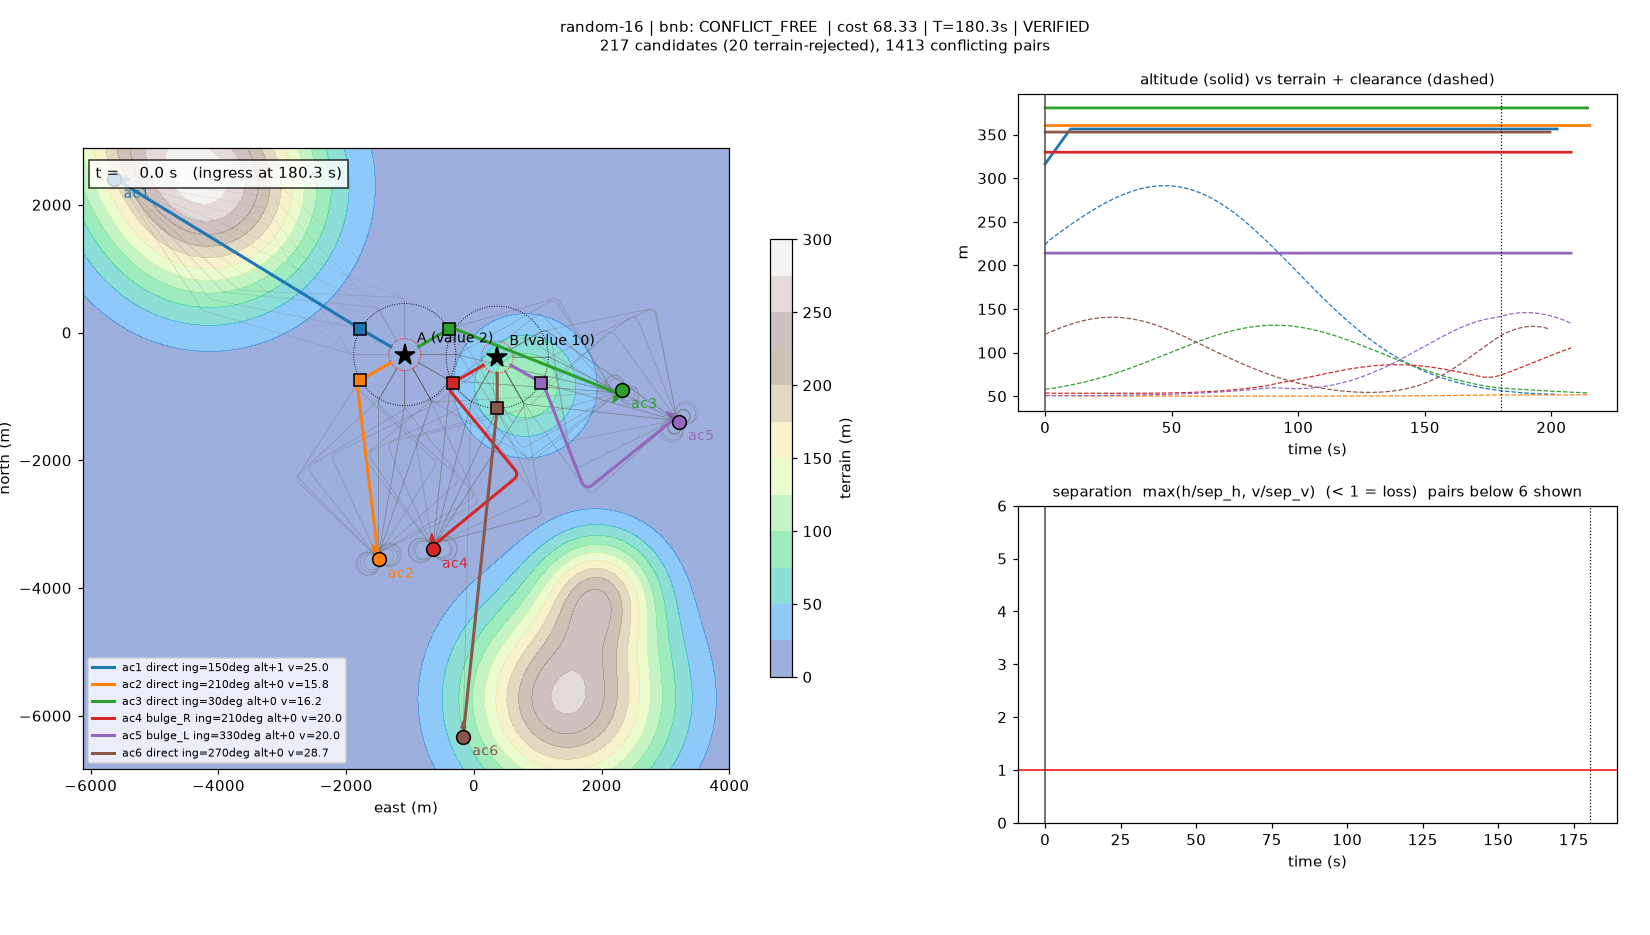
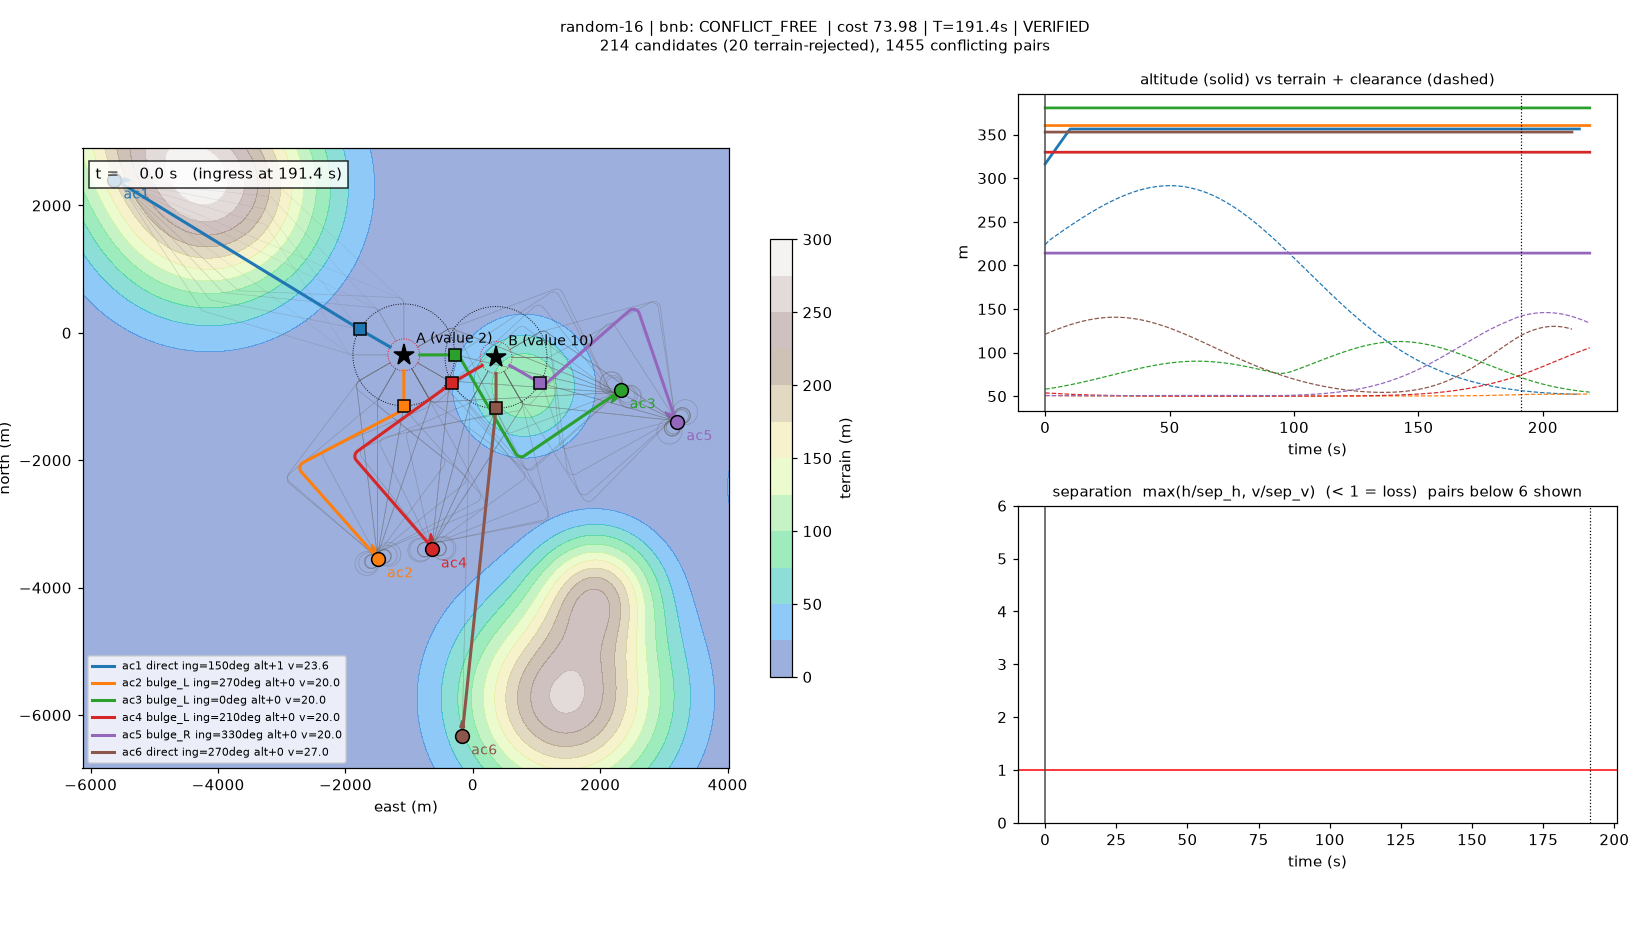
Monte Carlo robustness check; 15% speed margin for timing authority
robust.py replays plans under wind, start delay, cross-track and altitude
errors with a saturated schedule-tracking speed controller. Speed band
margin is now a fraction of (v_max - v_min): arrival misses drop from
18.9% to 1.4% across 200 seeds. Time-growing timing padding was tried
and reverted (no benefit; closed-loop timing error shrinks over time).

diff --git a/src/traj_opt/robust.py b/src/traj_opt/robust.py
@@ -1,0 +1,125 @@
+"""Monte Carlo robustness check: replay a plan under execution errors.
+
+Each trial perturbs every chosen aircraft with a constant wind (ground-speed bias), a start-time error,
+a constant cross-track offset, and a constant altitude offset. Each aircraft flies its planned path and
+tracks its planned schedule with a proportional speed controller, saturated at [v_min, v_max] airspeed.
+That saturation is where a thin speed margin shows up: an aircraft at its limit cannot recover lost time.
+"""
+
+from __future__ import annotations
+
+from dataclasses import dataclass, field
+from itertools import combinations
+
+import numpy as np
+
+from .model import Plan, Scenario
+
+
+@dataclass(frozen=True)
+class Dispersions:
+    wind_sd: float = 1.0  # m/s, along-track ground-speed bias
+    start_delay_sd: float = 3.0  # s, schedule error at plan start (+ = late)
+    cross_track_sd: float = 10.0  # m
+    alt_sd: float = 5.0  # m
+    gain: float = 0.1  # 1/s, schedule-tracking speed controller
+    arrival_tol: float = 2.0  # s, allowed |ingress time error|
+    dt: float = 0.2  # s, simulation step
+
+
+@dataclass
+class Robustness:
+    trials: int
+    p_sep_loss: float  # P(any pair separation ratio < 1)
+    p_terrain: float  # P(any aircraft below terrain + clearance)
+    p_arrival_miss: float  # P(any aircraft misses ingress time by > arrival_tol)
+    arrival_err_p95: float  # s, 95th percentile of the worst |ingress time error| per trial
+    min_sep_p05: float  # 5th percentile of the worst separation ratio per trial
+    pair_loss: dict[tuple[int, int], float] = field(default_factory=dict)
+
+    def summary(self) -> str:
+        worst = max(self.pair_loss.items(), key=lambda kv: kv[1], default=(None, 0.0))
+        s = (
+            f"robustness ({self.trials} trials): P(sep loss)={self.p_sep_loss:.1%}  "
+            f"P(terrain)={self.p_terrain:.1%}  P(arrival miss)={self.p_arrival_miss:.1%}  "
+            f"p95 |arrival err|={self.arrival_err_p95:.1f}s  p05 min sep ratio={self.min_sep_p05:.2f}"
+        )
+        if worst[1] > 0:
+            s += f"  worst pair ac{worst[0][0]}-ac{worst[0][1]} ({worst[1]:.1%})"
+        return s
+
+
+def monte_carlo(sc: Scenario, plan: Plan, trials: int = 200, disp: Dispersions | None = None, seed: int = 0):
+    disp = disp or Dispersions()
+    p = sc.params
+    acs = sc.aircraft_by_id()
+    chosen = sorted((k, c) for k, c in (plan.chosen or {}).items() if c is not None)
+    if not chosen:
+        return None
+    rng = np.random.default_rng(seed)
+    n = len(chosen)
+    shape = (trials, n)
+    wind = rng.normal(0.0, disp.wind_sd, shape)
+    delay = rng.normal(0.0, disp.start_delay_sd, shape)
+    xtrack = rng.normal(0.0, disp.cross_track_sd, shape)
+    dalt = rng.normal(0.0, disp.alt_sd, shape)
+
+    v_plan = np.array([c.speed for _, c in chosen])
+    v_min = np.array([acs[k].v_min for k, _ in chosen])
+    v_max = np.array([acs[k].v_max for k, _ in chosen])
+    l_end = np.array([c.speed * c.traj.t[-1] for _, c in chosen])
+    l_ing = np.array([c.length for _, c in chosen])
+
+    # Schedule tracking along the planned path (arc length s).
+    t = np.arange(0.0, 1.5 * max(c.traj.t[-1] for _, c in chosen), disp.dt)
+    s = np.empty((t.size, trials, n))
+    s[0] = -v_plan * delay
+    for k in range(1, t.size):
+        err = v_plan * t[k - 1] - s[k - 1]
+        air = np.clip(v_plan + disp.gain * err, v_min, v_max)
+        s[k] = s[k - 1] + (air + wind) * disp.dt
+
+    # Ingress time error: first crossing of the ingress arc length.
+    crossed = s >= l_ing
+    hit = crossed.any(axis=0)
+    t_ing = np.where(hit, t[crossed.argmax(axis=0)], np.inf)
+    arrival_err = np.abs(t_ing - plan.T).max(axis=1)
+
+    # Positions (with offsets) while each aircraft is still inside its planned horizon.
+    active = s < l_end
+    xyz = np.empty((t.size, trials, n, 3))
+    for i, (_, c) in enumerate(chosen):
+        si = c.speed * c.traj.t
+        pts = c.traj.xyz
+        tan = np.gradient(pts[:, :2], axis=0)
+        tan /= np.linalg.norm(tan, axis=1, keepdims=True)
+        q = s[:, :, i]
+        x = np.interp(q, si, pts[:, 0]) + np.minimum(q, 0) * tan[0, 0]
+        y = np.interp(q, si, pts[:, 1]) + np.minimum(q, 0) * tan[0, 1]
+        tx, ty = np.interp(q, si, tan[:, 0]), np.interp(q, si, tan[:, 1])
+        nrm = np.hypot(tx, ty)
+        xyz[:, :, i, 0] = x - xtrack[:, i] * ty / nrm
+        xyz[:, :, i, 1] = y + xtrack[:, i] * tx / nrm
+        xyz[:, :, i, 2] = np.interp(q, si, pts[:, 2]) + dalt[:, i]
+
+    clearance = xyz[..., 2] - sc.terrain.height(xyz[..., 0], xyz[..., 1])
+    terrain_bad = np.where(active, clearance < p.terrain_clearance, False).any(axis=(0, 2))
+
+    worst = np.full(trials, np.inf)
+    pair_loss = {}
+    for (i, (a, _)), (j, (b, _)) in combinations(enumerate(chosen), 2):
+        d = xyz[:, :, i] - xyz[:, :, j]
+        ratio = np.maximum(np.hypot(d[..., 0], d[..., 1]) / p.sep_h, np.abs(d[..., 2]) / p.sep_v)
+        m = np.where(active[:, :, i] & active[:, :, j], ratio, np.inf).min(axis=0)
+        worst = np.minimum(worst, m)
+        pair_loss[(a, b)] = float((m < 1.0).mean())
+
+    return Robustness(
+        trials=trials,
+        p_sep_loss=float((worst < 1.0).mean()),
+        p_terrain=float(terrain_bad.mean()),
+        p_arrival_miss=float((arrival_err > disp.arrival_tol).mean()),
+        arrival_err_p95=float(np.percentile(arrival_err, 95)),
+        min_sep_p05=float(np.percentile(worst, 5)),
+        pair_loss=pair_loss,
+    )

diff --git a/src/traj_opt/cli.py b/src/traj_opt/cli.py
@@ -8,6 +8,7 @@ from concurrent.futures import ProcessPoolExecutor
 
 from . import scenario as scn
 from .planner import build_problem, solve
+from .robust import monte_carlo
 
 
 def _load(args) -> scn.Scenario:
@@ -32,6 +33,8 @@ def cmd_run(args) -> None:
     results = [(s, *solve(prob, s)) for s in solvers]
     for _, plan, rep in results:
         print(_summary(prob, plan, rep))
+        if args.mc and plan.status != "NO_SAFE_PLAN":
+            print("  " + monte_carlo(sc, plan, trials=args.mc).summary())
     if args.no_show and not (args.gif or args.png):
         return
     import matplotlib
@@ -49,19 +52,22 @@ def cmd_run(args) -> None:
             fig.savefig(args.png.replace(".png", f"{suffix}.png"), dpi=110)
 
 
-def _bench_one(seed: int) -> dict:
+def _bench_one(seed: int, mc: int = 0) -> dict:
     sc = scn.generate(seed)
     prob = build_problem(sc)
     row = {"seed": seed, "t_build": prob.stats["t_candidates_s"] + prob.stats["t_conflicts_s"]}
     for s in ("greedy", "bnb"):
         plan, rep = solve(prob, s)
         row[s] = (plan.status, plan.cost, rep.ok, plan.extra["t_solve_s"], plan.nodes)
+        if s == "bnb" and mc and plan.status == "CONFLICT_FREE":
+            row["mc"] = monte_carlo(sc, plan, trials=mc)
     return row
 
 
 def cmd_bench(args) -> None:
     with ProcessPoolExecutor(args.jobs) as ex:
-        rows = list(ex.map(_bench_one, range(args.start, args.start + args.seeds)))
+        seeds = range(args.start, args.start + args.seeds)
+        rows = list(ex.map(_bench_one, seeds, [args.mc] * len(seeds)))
     n = len(rows)
     g_ok = [r for r in rows if r["greedy"][0] == "CONFLICT_FREE"]
     b_full = [r for r in rows if r["bnb"][0] == "CONFLICT_FREE"]
@@ -84,6 +90,16 @@ def cmd_bench(args) -> None:
         f"build time mean {statistics.mean(r['t_build'] for r in rows):.2f}s, "
         f"bnb solve max {max(r['bnb'][3] for r in rows) * 1000:.1f}ms, nodes max {max(r['bnb'][4] for r in rows)}"
     )
+    mcs = [r["mc"] for r in rows if "mc" in r]
+    if mcs:
+        print(f"robustness of bnb plans ({len(mcs)} plans x {args.mc} trials, mean over plans):")
+        for name in ("p_sep_loss", "p_terrain", "p_arrival_miss"):
+            vals = [getattr(m, name) for m in mcs]
+            print(f"  {name:15s} mean {statistics.mean(vals):6.1%}   plans with any: {sum(v > 0 for v in vals)}")
+        print(
+            f"  arrival_err_p95 median {statistics.median(m.arrival_err_p95 for m in mcs):.1f}s, "
+            f"min_sep_p05 median {statistics.median(m.min_sep_p05 for m in mcs):.2f}"
+        )
 
 
 def cmd_gen(args) -> None:
@@ -108,12 +124,14 @@ def main(argv: list[str] | None = None) -> None:
     r.add_argument("--gif", help="write an animation, e.g. out.gif")
     r.add_argument("--png", help="write a still, e.g. out.png")
     r.add_argument("--no-show", action="store_true", help="do not open a window")
+    r.add_argument("--mc", type=int, default=200, help="Monte Carlo robustness trials (0 = off)")
     r.set_defaults(func=cmd_run)
 
     b = sub.add_parser("bench", help="greedy vs branch-and-bound over random seeds")
     b.add_argument("--seeds", type=int, default=200)
     b.add_argument("--start", type=int, default=0)
     b.add_argument("--jobs", type=int, default=None)
+    b.add_argument("--mc", type=int, default=0, help="Monte Carlo trials per bnb plan (0 = off)")
     b.set_defaults(func=cmd_bench)
 
     g = sub.add_parser("gen", help="write a generated scenario to JSON")

diff --git a/tests/test_robust.py b/tests/test_robust.py
@@ -1,0 +1,44 @@
+import dataclasses
+
+import pytest
+
+from traj_opt import scenario
+from traj_opt.planner import build_problem, solve
+from traj_opt.robust import Dispersions, monte_carlo
+
+
+def _plan(**params):
+    sc = scenario.load("scenarios/crossing.json")
+    sc = dataclasses.replace(sc, params=dataclasses.replace(sc.params, **params))
+    prob = build_problem(sc)
+    plan, _ = solve(prob, "bnb")
+    assert plan.status == "CONFLICT_FREE"
+    return sc, plan
+
+
+@pytest.fixture(scope="module")
+def nominal():
+    return _plan()
+
+
+def test_zero_dispersion_reproduces_plan(nominal):
+    sc, plan = nominal
+    r = monte_carlo(sc, plan, 10, Dispersions(wind_sd=0, start_delay_sd=0, cross_track_sd=0, alt_sd=0))
+    assert r.p_sep_loss == r.p_terrain == r.p_arrival_miss == 0.0
+    assert r.arrival_err_p95 <= Dispersions().dt
+
+
+def test_deterministic(nominal):
+    sc, plan = nominal
+    assert monte_carlo(sc, plan, 50, seed=3) == monte_carlo(sc, plan, 50, seed=3)
+
+
+def test_speed_margin_buys_arrival_robustness(nominal):
+    thin = _plan(speed_margin=0.5 / 15)
+    assert monte_carlo(*nominal, 200).p_arrival_miss < monte_carlo(*thin, 200).p_arrival_miss
+
+
+def test_large_errors_lose_separation(nominal):
+    sc, plan = nominal
+    r = monte_carlo(sc, plan, 100, Dispersions(cross_track_sd=150, alt_sd=60))
+    assert r.p_sep_loss > 0

diff --git a/src/traj_opt/model.py b/src/traj_opt/model.py
@@ -32,7 +32,7 @@ class Params:
     r_exempt: float = 250.0  # trajectories end here; converging inside is intended
     # Timing
     schedule_margin: float = 5.0
-    speed_margin: float = 0.5  # plan inside [v_min + m, v_max - m] to keep control authority
+    speed_margin: float = 0.15  # fraction of (v_max - v_min) kept free at each end of the band for timing control
     sync_tolerance: float = 0.1
     # Candidate families
     alt_step: float = 40.0

diff --git a/src/traj_opt/candidates.py b/src/traj_opt/candidates.py
@@ -30,7 +30,8 @@ def ingress_options(sc: Scenario, ac: Aircraft, tgt: Target) -> list[tuple[float
 
 
 def speed_band(sc: Scenario, ac: Aircraft) -> tuple[float, float]:
-    return ac.v_min + sc.params.speed_margin, ac.v_max - sc.params.speed_margin
+    m = sc.params.speed_margin * (ac.v_max - ac.v_min)
+    return ac.v_min + m, ac.v_max - m
 
 
 def common_ingress_time(sc: Scenario) -> float:

diff --git a/README.md b/README.md
@@ -13,7 +13,7 @@ uv sync
 uv run traj-opt run scenarios/crossing.json --solver both          # interactive window with time slider
 uv run traj-opt run --seed 16 --solver bnb --png out.png --no-show  # random scenario, still image
 uv run traj-opt run scenarios/crossing.json --gif out.gif --no-show
-uv run traj-opt bench --seeds 200                                  # greedy vs bnb over random scenarios
+uv run traj-opt bench --seeds 200 --mc 100                         # greedy vs bnb + Monte Carlo robustness
 uv run traj-opt gen my.json --seed 3                               # write a scenario to edit by hand
 uv run pytest
 ```
@@ -28,10 +28,10 @@ uv run pytest
 ## Pipeline
 
 ```
-scenario ─► common ingress time T ─► candidates per aircraft ─► terrain filter ─► voxel conflict graph ─► select ─► verify ─► viz
+scenario ─► common ingress time T ─► candidates per aircraft ─► terrain filter ─► voxel conflict graph ─► select ─► verify ─► Monte Carlo ─► viz
 ```
 
-1. **Ingress time.** `T = max_i(shortest Dubins length_i / v_hi_i) + margin`. The slowest-to-arrive aircraft sets `T`, and everyone else stretches to match it. Speeds are planned inside `[v_min + m, v_max − m]` to keep control authority (fixes the "zigzag at exactly v_min" issue).
+1. **Ingress time.** `T = max_i(shortest Dubins length_i / v_hi_i) + margin`. The slowest-to-arrive aircraft sets `T`, and everyone else stretches to match it. Speeds are planned inside `[v_min + m, v_max − m]` with `m = 15% × (v_max − v_min)`. That leaves each aircraft room to speed up or slow down to absorb wind and delays (fixes the "zigzag at exactly v_min" issue).
 2. **Candidates** (`candidates.py`). Each candidate combines:
    - **ingress option**: 30° steps on an 800 m ring, best 4 by Dubins length. Points in the same direction are 45° apart.
    - **geometry**:
@@ -52,21 +52,42 @@ scenario ─► common ingress time T ─► candidates per aircraft ─► terr
 
      A plan that drops aircraft is reported as `PARTIAL`, never silently.
 5. **Verify** (`verify.py`). Shares no code with the voxels. Checks sync time, start state, speed band, climb rate, turn radius (circumradius), exact terrain clearance, altitude bounds, approach sectors, and pairwise separation `max(h/sep_h, v/sep_v) ≥ 1` on a 0.1 s grid. It runs on every plan.
-6. **Viz** (`viz.py`). The map shows terrain, all candidates (faint), and the chosen paths with live positions and separation discs. Side panels show altitude vs terrain + clearance and separation ratio vs time. There is a time slider and GIF export.
+6. **Monte Carlo robustness** (`robust.py`, `run --mc N`, default 200). This replays the chosen plan under execution errors:
+   - per aircraft: wind (ground-speed bias, σ 1 m/s), start-time error (σ 3 s), cross-track offset (σ 10 m), altitude offset (σ 5 m);
+   - each aircraft tracks its planned schedule with a proportional speed controller, limited to `[v_min, v_max]`.
+
+   It reports the probability of separation loss, terrain clearance violation, and missing the ingress time by more than 2 s, plus tail percentiles and the worst pair.
+7. **Viz** (`viz.py`). The map shows terrain, all candidates (faint), and the chosen paths with live positions and separation discs. Side panels show altitude vs terrain + clearance and separation ratio vs time. There is a time slider and GIF export.
 
 ## Results (`traj-opt bench --seeds 200`, 2 targets × 3 aircraft, 6 random hills)
 
 ```
-greedy  all aircraft planned : 133/200
-bnb     all aircraft planned : 192/200   partial (some dropped): 8
-bnb rescued greedy failures  : 59
-bnb cheaper than greedy      : 64/133  mean cost reduction 4.5%
+greedy  all aircraft planned : 128/200
+bnb     all aircraft planned : 190/200   partial (some dropped): 10
+bnb rescued greedy failures  : 62
+bnb cheaper than greedy      : 57/128  mean cost reduction 3.6%
 bnb worse than greedy (bug)  : []
 verifier failures (bug)      : []
-build time mean 2.87s, bnb solve max 476ms, nodes max 113145
+build time mean 3.17s, bnb solve max 540ms, nodes max 114232
+robustness of bnb plans (190 plans x 100 trials, mean over plans):
+  p_sep_loss      mean   0.0%   plans with any: 1
+  p_terrain       mean   0.0%   plans with any: 0
+  p_arrival_miss  mean   1.4%   plans with any: 156
+  arrival_err_p95 median 1.4s, min_sep_p05 median 4.71
 ```
 
-Runtime is dominated by candidate generation and rasterization (about 2–3 s, pure numpy). Selection takes milliseconds. All 8 partial plans are proven optimal (max 50k nodes, under the 200k limit). In each, one aircraft's few remaining candidates (6–51) all conflict with better uses of the airspace, so it is dropped. The fix for these cases is more candidate diversity (see simplifications), not more search.
+Runtime is dominated by candidate generation and rasterization (about 2–3 s, pure numpy). Selection takes milliseconds. Partial plans are proven optimal (node limit not reached). In each, one aircraft's few remaining candidates all conflict with better uses of the airspace, so it is dropped. The fix for these cases is more candidate diversity (see simplifications), not more search.
+
+**Robustness findings** (same 200 seeds, 100 trials per plan):
+
+| config | all planned | P(arrival miss) | p95 \|arrival err\| | plans with any separation loss | build |
+|---|---|---|---|---|---|
+| old speed margin (0.5 m/s) | 192 | 18.9% | 5.4 s | 4 | 3.0 s |
+| **15% speed margin** (current) | 190 | **1.4%** | **1.4 s** | 1 | 3.2 s |
+| 15% margin + timing padding growing 1% of elapsed time | 190 | 1.4% | 1.4 s | 1 | 5.4 s |
+
+- With the old 0.5 m/s margin, the aircraft that sets `T` hits `v_max` under a headwind or a late start and arrives late. The 15% margin costs 2 fully planned scenarios and removes most arrival misses.
+- Timing padding that grows with time was tried and reverted. With schedule tracking, timing error is largest at the start (about 5.5 s p95, from the start delay) and settles to about 0.8 s within 30 s. So padding that grows over the flight is the wrong shape; it gave no benefit and was 1.7× slower to build. The fixed 1 s jitter matches the settled error.
 
 ## Tests
 
@@ -74,6 +95,7 @@ Runtime is dominated by candidate generation and rasterization (about 2–3 s, p
 - `test_voxels.py`: head-on, crossing, time-separated crossing, parallel tracks, vertical layers, trailing within jitter, coarse-sampling guard, terrain. Also a **no-false-negatives property test**: every random pair that loses separation in continuous time must be flagged by the voxels.
 - `test_select.py`: `bnb == brute_force` on 300 random instances; `bnb ≤ greedy` whenever greedy succeeds.
 - `test_e2e.py`: plans from the full pipeline pass the verifier; determinism; JSON round trip.
+- `test_robust.py`: zero dispersion reproduces the plan; determinism; the speed margin reduces arrival misses; large errors are detected as separation loss.
 
 ## Deliberate simplifications
 
@@ -92,8 +114,9 @@ How much the results prove:
 Model gaps:
 - The voxel check is conservative. No missed conflicts were found in testing, but the false-positive rate (safe plans rejected) is not measured.
 - Separation is not checked within `r_exempt` (250 m) of the aimpoint.
-- No wind, constant speed per candidate, turn radius independent of speed, 1 s timing jitter.
-- The aircraft that sets `T` flies only 0.5 m/s below `v_max`, so a delay makes it late.
+- Planning assumes no wind, constant speed per candidate, turn radius independent of speed, and 1 s timing jitter. Wind and other errors appear only in the Monte Carlo check.
+- The Monte Carlo error model (σ values, P speed controller, constant offsets) is assumed, not taken from flight data; results are only as good as these numbers. It ignores how wind changes the turn radius, and climb rate under speed changes.
+- Early in the flight, timing error (up to about 5 s) exceeds the 1 s planning jitter. This is harmless here because aircraft are far apart early, but it is not guaranteed.
 - `terrain_margin` (25 m) is a hand-tuned buffer for the conservatism of the voxel terrain check.
 
 Coverage:
